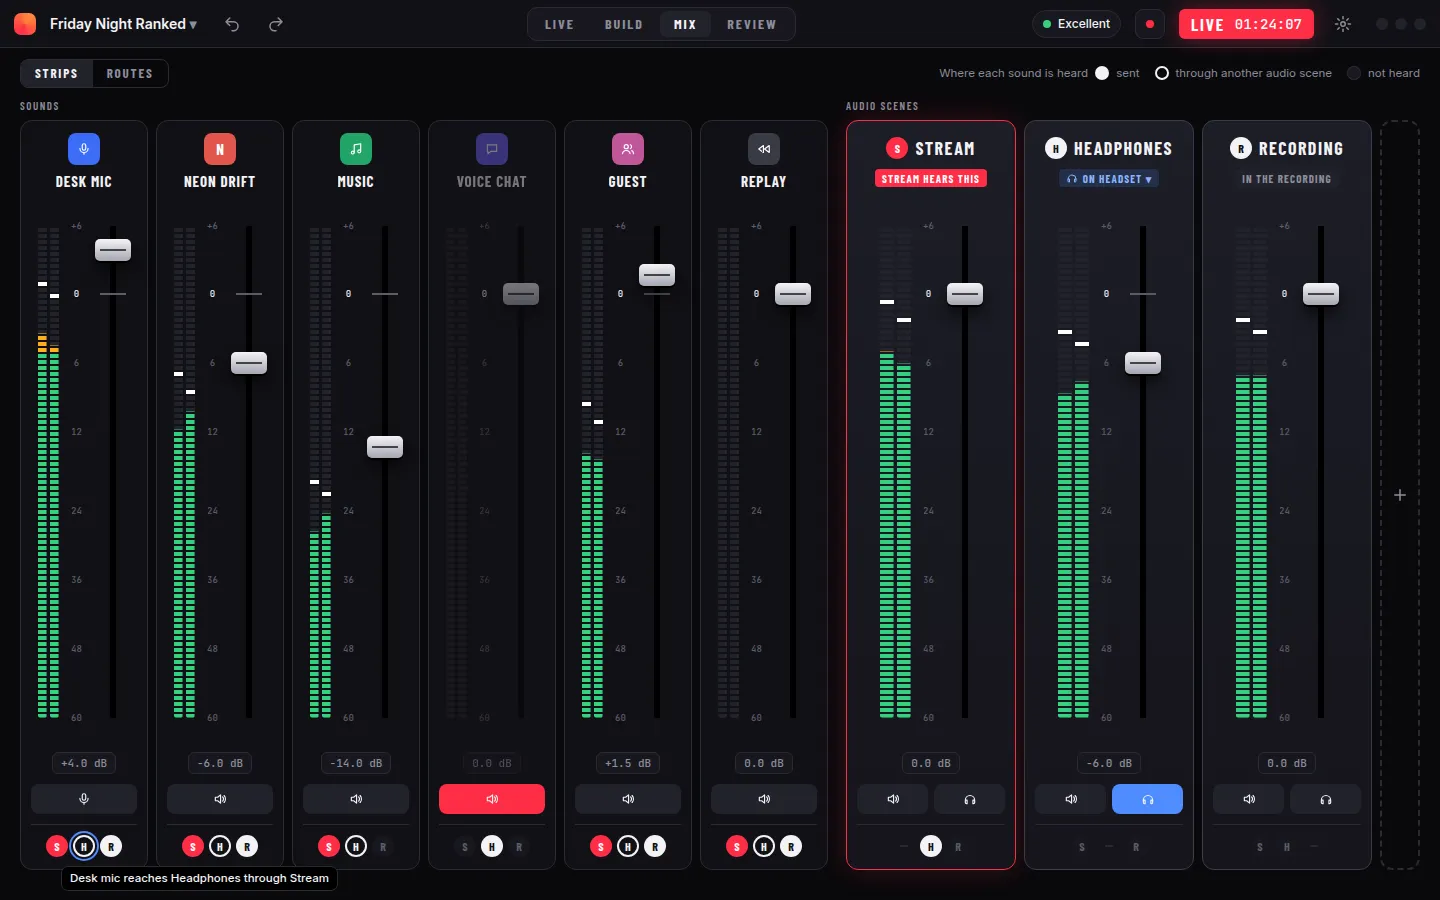
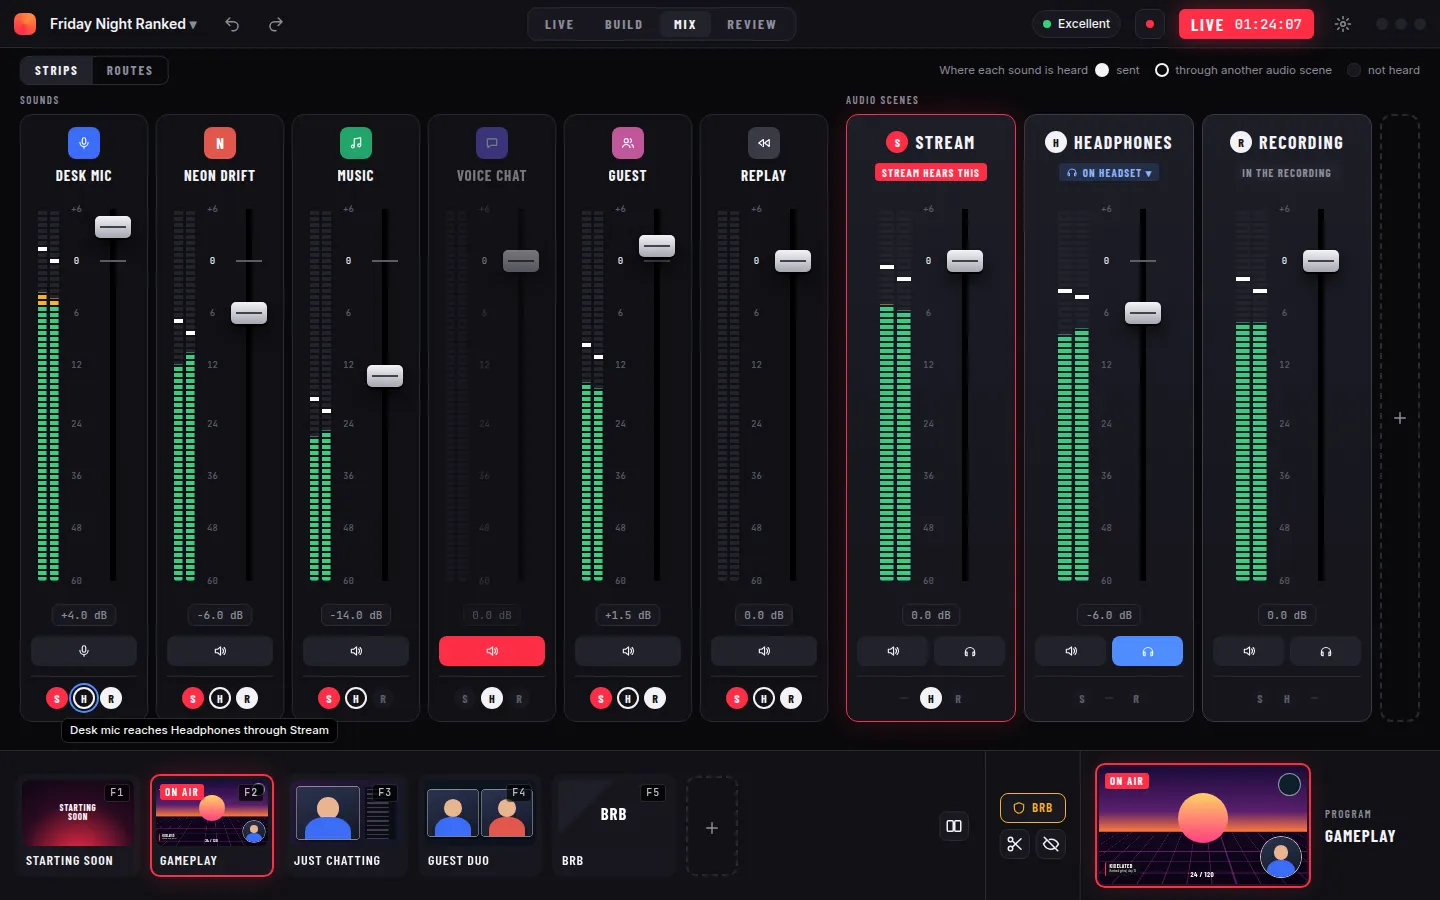
quest(m0/ux): the scenes, sound, panic key, and a live picture stay on every page

diff --git a/quest/m0/ux/mock/mix.html b/quest/m0/ux/mock/mix.html
@@ -9,13 +9,20 @@
 <link rel="stylesheet" href="kit.css">
 <style>
 /* MIX: a strip per sound, the audio scenes as masters, and the same sends as a matrix. */
-.M{grid-template:48px 50px minmax(0,1fr)/minmax(0,1fr);--H:492px}
+.M{grid-template:48px 44px minmax(0,1fr) 150px/minmax(0,1fr);--H:372px}
+.M .dock{grid-column:1/-1}
+/* the dock on MIX: scenes and the panic key as everywhere, and the live picture where the sound strip would repeat the page */
+.livemon{width:360px;flex:none;border-left:1px solid var(--line);display:flex;align-items:center;gap:18px;padding:0 14px 0 18px}
+.livemon-pic{position:relative;width:208px;aspect-ratio:16/9;flex:none;border-radius:6px;outline:2px solid var(--air);outline-offset:2px;box-shadow:0 0 24px #ff2d4640}
+.livemon-tag{position:absolute;left:6px;top:6px;z-index:5;padding:0 5px;border-radius:3px;background:var(--air);color:#fff;font:700 11px/16px var(--disp);letter-spacing:.12em}
+.livemon-tx{display:flex;flex-direction:column;gap:8px;min-width:0}
+.livemon-tx b{font:700 17px/1 var(--disp);letter-spacing:.06em;text-transform:uppercase;white-space:nowrap}
 .sub{display:flex;align-items:center;gap:16px;padding:0 20px}
 .sub .seg span{padding:7px 14px;font:700 13px/1 var(--disp);letter-spacing:.14em}
 .lg{display:flex;align-items:center;gap:7px;color:var(--dim);font-size:11.5px;white-space:nowrap}
 .lg .sd{width:14px;height:14px}
 
-.desk{display:flex;gap:18px;padding:0 20px 30px;min-height:0}
+.desk{display:flex;gap:18px;padding:0 20px 28px;min-height:0}
 .grp{display:flex;flex-direction:column;gap:8px;min-width:0}
 .grp.ms{flex:1}
 .grp>.cap{height:14px;display:flex;align-items:center}
@@ -91,21 +98,22 @@
 .c .openw .nm2{font-size:15px;letter-spacing:.06em}
 .c .grp.sn{flex:1}
 .det{width:300px;flex:none;border-left:1px solid var(--line);display:flex;flex-direction:column;min-height:0}
-.det .dh{display:flex;align-items:center;gap:10px;padding:12px 8px 12px 14px;border-bottom:1px solid var(--line)}
-.det .dh b{display:block;font:700 18px/1 var(--disp);letter-spacing:.08em}
-.det .dh small{display:block;margin-top:5px;font-size:11.5px;color:var(--dim)}
-.det .sec{padding:13px 14px;gap:11px}
+.det .dh{display:flex;align-items:center;gap:10px;padding:5px 6px 5px 14px;border-bottom:1px solid var(--line)}
+.det .dh .grow{display:flex;align-items:baseline;gap:10px}
+.det .dh b{font:700 18px/1 var(--disp);letter-spacing:.08em}
+.det .dh small{font-size:11.5px;color:var(--dim)}
+.det .sec{padding:10px 14px;gap:9px}
 .det .sl .n{width:44px;color:var(--text)}
 .det .sl b{width:58px;text-align:right;font:500 11.5px/1 var(--mono)}
 .sl .bar.pan{background:linear-gradient(var(--faint),var(--faint)) center/2px 10px no-repeat,linear-gradient(var(--p3),var(--p3)) center/100% 4px no-repeat;height:10px}
 .sl .bar.pan::after{top:-2px}
 .help{font-size:11.5px;line-height:1.4;color:var(--dim)}
 .fl{border-radius:9px;background:var(--p2);border:1px solid var(--line)}
-.fl .fh{display:flex;align-items:center;gap:8px;height:36px;padding:0 10px 0 6px;font:500 12.5px/1 var(--ui)}
+.fl .fh{display:flex;align-items:center;gap:8px;height:28px;padding:0 10px 0 6px;font:500 12.5px/1 var(--ui)}
 .fl .fh em{font-style:normal;font-size:11px;color:var(--dim);white-space:nowrap}
 .fl .num{width:16px;text-align:center;font:500 11px/1 var(--mono);color:var(--faint)}
 .fl .grip{color:var(--dim)}
-.fl .fb{display:flex;flex-direction:column;gap:10px;padding:4px 12px 12px 12px;border-top:1px solid var(--line);padding-top:11px}
+.fl .fb{display:flex;flex-direction:column;gap:8px;padding:9px 12px 10px;border-top:1px solid var(--line)}
 .fl.open{border-color:#3b3b4a}
 .gr{flex:1;height:8px;border-radius:2px;background:linear-gradient(270deg,var(--cue) 0 var(--v),var(--p3) var(--v));
   -webkit-mask:repeating-linear-gradient(90deg,#000 0 5px,transparent 5px 7px);mask:repeating-linear-gradient(90deg,#000 0 5px,transparent 5px 7px)}
@@ -113,20 +121,20 @@
 .hr em{font-style:normal;font-size:11px;color:var(--dim)}
 
 /* routes: sounds down the side, audio scenes across the top */
-.mxw{position:relative;display:flex;justify-content:center;align-items:flex-start;padding:6px 20px 18px;min-height:0}
+.mxw{position:relative;display:flex;justify-content:center;align-items:flex-start;padding:6px 20px 0;min-height:0}
 .mx{position:relative;display:grid;grid-template-columns:292px 220px repeat(3,178px) 70px;border-radius:14px;background:var(--p1);border:1px solid var(--line);overflow:hidden}
-.mx>div{display:flex;align-items:center;min-width:0;height:60px;border-top:1px solid var(--line)}
-.mx>.h{height:112px;border-top:0;align-items:stretch}
+.mx>div{display:flex;align-items:center;min-width:0;height:50px;border-top:1px solid var(--line)}
+.mx>.h{height:98px;border-top:0;align-items:stretch}
 .mx>.nm{gap:11px;padding-left:18px;font:600 13.5px/1 var(--ui)}
 .mx>.nm .ic{width:28px;height:28px;font:700 14px/1 var(--disp)}
 .mx>.lv{padding:0 26px 0 6px}
 .mx>.lv .led{height:8px}
-.mx>.c{justify-content:center;flex-direction:column;gap:5px;border-left:1px solid var(--line)}
+.mx>.c{justify-content:center;flex-direction:column;gap:4px;border-left:1px solid var(--line)}
 .mx>.c.pg{background:#ff2d460f}
 .mx>.c small{font-size:10px;line-height:1;color:var(--dim)}
 .mx>.c.self{background:repeating-linear-gradient(-45deg,transparent 0 6px,#ffffff08 6px 12px)}
-.mx>.dv{grid-column:1/-1;height:40px;padding:0 18px;gap:10px;background:#0d0d12}
-.mx>.ft{height:42px;font-size:11.5px;color:var(--dim)}
+.mx>.dv{grid-column:1/-1;height:34px;padding:0 18px;gap:10px;background:#0d0d12}
+.mx>.ft{height:36px;font-size:11.5px;color:var(--dim)}
 .mx>.ft.c{flex-direction:row}
 .mx>.hi{background:#4f8cff14}
 .mx>.c.pg.hi{background:#4f8cff14}
@@ -168,7 +176,7 @@ const MS=[
  {id:'H',n:'Headphones',on:1,tag:`<span class="mtag sel">${I('phones')}On Headset ▾</span>`,l:66,r:68,pk:78,t:28,db:'-6.0',s:'-x-'},
  {id:'R',n:'Recording',tag:'<span class="mtag">In the recording</span>',l:70,r:69,pk:81,t:14,db:'0.0',s:'--x'},
 ];
-const SEGS=82,seg=x=>x<0?-2:Math.round(x*SEGS/100);
+const SEGS=62,seg=x=>x<0?-2:Math.round(x*SEGS/100);
 const dot=(c,i,l=1)=>`<i class="sd ${{d:'d',v:'v','-':'',x:'x'}[c]} ${i==0?'pg':''}">${c=='x'||!l?'':SC[i][0]}</i>`;
 const sends=s=>`<div class="sends">${[...s].map((c,i)=>dot(c,i)).join('')}</div>`;
 const scale=`<div class="sc">${[['+6',0],['0',14,'u'],['6',28],['12',42],['24',58],['36',72],['48',86],['60',100]].map(([t,y,c])=>`<span class="${c||''}" style="--y:${y}%">${t}</span>`).join('')}</div>`;
@@ -194,10 +202,10 @@ const detail=()=>`<div class="det">
     <div class="sl"><span class="n">Pan</span><div class="bar pan" style="--v:50%"></div><b>Center</b></div>
     <div class="sl"><span class="n">Delay</span><div class="bar" style="--v:6%"></div><b>120 ms</b></div>
     <div class="row" style="gap:10px"><div class="btn" style="flex:none">${I('clap','sm')}Clap to measure</div><span class="help">up to 2 s</span></div>
-    <span class="help">Clap once on camera and the sound lines up with the picture.</span>
+    <span class="help">Clap once on camera to line the sound up.</span>
   </div>
   <div class="sec">
-    <div class="row"><span class="cap grow">Filters</span><span class="help" style="font-size:11px">top one first</span></div>
+    <div class="row"><span class="cap">Filters</span><span class="help grow" style="font-size:11px">top one first</span><span class="row dim" style="gap:5px;font-size:12px">${I('plus','sm')}Add a filter</span></div>
     ${filt(1,'Noise suppression','Strong')}
     ${filt(2,'Gate','opens at -42 dB')}
     <div class="fl open"><div class="fh">${I('grip','sm grip')}<span class="num">3</span><span class="grow">Compressor</span>${I('down','sm dim')}<i class="tog on"></i></div>
@@ -208,15 +216,18 @@ const detail=()=>`<div class="det">
         <div class="sl"><span class="n" style="width:66px;color:var(--dim)">Reducing</span><div class="gr" style="--v:30%"></div><b style="color:var(--cue)">-4 dB</b></div>
       </div></div>
     ${filt(4,'Limiter','-1 dB ceiling')}
-    <div class="row dim" style="font-size:12px;padding-left:4px">${I('plus','sm')}Add a filter</div>
   </div>
-  <div class="sec" style="border:0;gap:6px">
-    <span class="cap" style="margin-bottom:4px">Heard in</span>
+  <div class="sec" style="border:0;gap:4px">
+    <span class="cap" style="margin-bottom:3px">Heard in</span>
     <div class="hr"><i class="sd d pg">S</i><span class="grow">Stream</span><i class="tog on"></i></div>
     <div class="hr"><i class="sd v">H</i><span class="grow">Headphones <em>through Stream</em></span><i class="tog"></i></div>
     <div class="hr"><i class="sd d">R</i><span class="grow">Recording</span><i class="tog on"></i></div>
   </div>
 </div>`;
+
+// the dock as on LIVE, with the live picture in the slot of the sound strip
+const livemon=`<div class="livemon"><div class="livemon-pic"><span class="livemon-tag">ON AIR</span>${pic('game')}</div><div class="livemon-tx"><span class="cap">Program</span><b>Gameplay</b></div></div>`;
+const mixdock=()=>`<div class="dock">${scenes()}${quick}${livemon}</div>`;
 
 // the matrix
 const ROWS=[...SND,...MS.map(m=>({...m,ms:1}))];
@@ -235,17 +246,17 @@ const matrix=()=>`<div class="mxw"><div class="mx">
 </div></div>`;
 
 const V={
- 'mix':{label:'MIX',cls:'M',note:'<b>MIX.</b> One strip per sound with a tall meter, a fader in decibels, and a mute; the audio scenes stand to the right as heavier master strips. The dots under a strip say where it is heard, one per audio scene: filled is sent, a ring arrives through another audio scene, and red is the one the stream hears. Any audio scene can be listened to with its headphone button.',
-   html:()=>topbar('MIX')+sub('s')+desk(),
-   after:f=>{const d=f.querySelector('.strip[data-id=mic] .sends .sd.v');d.classList.add('hov');
+ 'mix':{label:'MIX',cls:'M',note:'<b>MIX.</b> One strip per sound with a tall meter, a fader in decibels, and a mute; the audio scenes stand to the right as heavier master strips. The dots under a strip say where it is heard, one per audio scene: filled is sent, a ring arrives through another audio scene, and red is the one the stream hears. Any audio scene can be listened to with its headphone button. The dock stays underneath, so the scenes, the panic key, and the live picture stay on screen; the picture takes the slot where the sound strip sits on the other pages, since this page already is the sound.',
+   html:()=>topbar('MIX')+sub('s')+desk()+mixdock(),
+   after:f=>{air(f,'game');const d=f.querySelector('.strip[data-id=mic] .sends .sd.v');d.classList.add('hov');
      f.querySelector('.strip[data-id=mic]').insertAdjacentHTML('beforeend','<div class="tip" style="left:40px;bottom:-22px">Desk mic reaches Headphones through Stream</div>')}},
- 'strip':{label:'MIX · a strip opened',cls:'M',note:'<b>A strip opened.</b> A click on a strip grows it in place and its neighbours narrow, so no meter is covered. Inside: gain, pan, the delay with Clap to measure beside it, the filters in the order the sound passes through them with one unfolded, and the same sends as named switches.',
-   html:()=>topbar('MIX')+sub('s')+desk('mic')},
- 'routes':{label:'MIX · routes',cls:'M',note:'<b>The same sends as a matrix.</b> Sounds and audio scenes down the side, audio scenes across the top, for someone who thinks in routing. A filled dot is a send, a ring is a sound that arrives through another audio scene, and the red column is what the stream hears.',
-   html:()=>topbar('MIX')+sub('r')+matrix(),
-   after:f=>{f.querySelectorAll('[data-r=music]').forEach(e=>e.classList.add('hi'));f.querySelectorAll('[data-c="2"]').forEach(e=>e.classList.add('hi'));
+ 'strip':{label:'MIX · a strip opened',cls:'M',note:'<b>A strip opened.</b> A click on a strip grows it in place and its neighbours narrow, so no meter is covered, and the scenes, the panic key, and the live picture stay on screen underneath. Inside: gain, pan, the delay with Clap to measure beside it, the filters in the order the sound passes through them with one unfolded, and the same sends as named switches.',
+   html:()=>topbar('MIX')+sub('s')+desk('mic')+mixdock(),after:f=>air(f,'game')},
+ 'routes':{label:'MIX · routes',cls:'M',note:'<b>The same sends as a matrix.</b> Sounds and audio scenes down the side, audio scenes across the top, for someone who thinks in routing, while the scenes, the panic key, and the live picture stay on screen underneath. A filled dot is a send, a ring is a sound that arrives through another audio scene, and the red column is what the stream hears.',
+   html:()=>topbar('MIX')+sub('r')+matrix()+mixdock(),
+   after:f=>{air(f,'game');f.querySelectorAll('[data-r=music]').forEach(e=>e.classList.add('hi'));f.querySelectorAll('[data-c="2"]').forEach(e=>e.classList.add('hi'));
      f.querySelector('.c[data-r=music][data-c="2"] .rd').classList.add('hov');
-     f.querySelector('.mxw').insertAdjacentHTML('beforeend','<div class="tip" style="left:1144px;top:255px">Music is left out of Recording</div>')}},
+     f.querySelector('.mxw').insertAdjacentHTML('beforeend','<div class="tip" style="left:1144px;top:217px">Music is left out of Recording</div>')}},
 };
 mount(V);
 </script>

diff --git a/quest/m0/ux/mock/review.html b/quest/m0/ux/mock/review.html
@@ -9,12 +9,13 @@
 <link rel="stylesheet" href="kit.css">
 <style>
 /* REVIEW: the recent past to replay or clip on the left, this show's recordings on the right. */
-.R{grid-template:48px minmax(0,1fr)/minmax(0,1fr) 384px}
-.rv{position:relative;display:flex;flex-direction:column;gap:16px;padding:18px 24px 22px;min-width:0;min-height:0;background:radial-gradient(120% 90% at 50% 0,#15151d,var(--bg))}
+.R{grid-template:48px minmax(0,1fr) 150px/minmax(0,1fr) 384px}
+.R .dock{grid-column:1/-1}
+.rv{position:relative;display:flex;flex-direction:column;gap:12px;padding:14px 24px 14px;min-width:0;min-height:0;background:radial-gradient(120% 90% at 50% 0,#15151d,var(--bg))}
 .pv{position:relative;width:min(100cqw - 12px,(100cqh - 12px)*16/9);aspect-ratio:16/9;border-radius:10px;outline:2px solid #3f3f4d;outline-offset:3px}
 .topa{flex:1;min-height:0;display:flex;gap:18px}
-.srcs{width:176px;flex:none;display:flex;flex-direction:column;justify-content:center;gap:8px}
-.srcc{position:relative;height:99px;border-radius:9px;overflow:hidden;outline:1px solid var(--line)}
+.srcs{width:160px;flex:none;display:flex;flex-direction:column;justify-content:center;gap:8px}
+.srcc{position:relative;height:90px;border-radius:9px;overflow:hidden;outline:1px solid var(--line)}
 .srcc b{position:absolute;left:0;right:0;bottom:0;z-index:3;padding:14px 8px 6px;font:700 13px/1 var(--disp);letter-spacing:.08em;text-transform:uppercase;background:linear-gradient(transparent,#000d)}
 .srcc.on{outline:3px solid var(--text)}
 .srcc .tg2{position:absolute;left:6px;top:6px;z-index:3;padding:0 5px;border-radius:3px;background:var(--air);color:#fff;font:700 11px/16px var(--disp);letter-spacing:.12em}
@@ -46,22 +47,22 @@
 .ruler span:first-child{transform:none}.ruler span:last-child{transform:translateX(-100%)}
 
 .rv .seg{border-radius:10px}
-.rv .seg span{padding:0 15px;height:36px;display:flex;align-items:center;font:600 12.5px/1 var(--ui)}
+.rv .seg span{padding:0 15px;height:30px;display:flex;align-items:center;font:600 12.5px/1 var(--ui)}
 .rv .seg span.on{background:var(--text);color:#111}
-.ctl{display:flex;flex-direction:column;gap:9px}
-.bigb{flex:1;height:78px;border-radius:13px;display:flex;align-items:center;gap:16px;padding:0 22px;background:var(--p2);border:1px solid #3f3f4d;min-width:0}
+.ctl{display:flex;flex-direction:column;gap:6px}
+.bigb{flex:1;height:70px;border-radius:13px;display:flex;align-items:center;gap:16px;padding:0 22px;background:var(--p2);border:1px solid #3f3f4d;min-width:0}
 .bigb svg.i{width:26px;height:26px}
 .bigb b{display:block;font:700 28px/1 var(--disp);letter-spacing:.1em}
 .bigb small{display:block;margin-top:5px;font-size:12px;color:var(--dim);white-space:nowrap}
 .bigb.go{flex:1.25;background:var(--text);color:#111;border-color:transparent;box-shadow:0 10px 30px #0008}
 .bigb.go small{color:#111b}
 
-.recs{background:var(--p1);border-left:1px solid var(--line);display:flex;flex-direction:column;min-height:0;padding:18px 16px 16px;gap:12px}
+.recs{background:var(--p1);border-left:1px solid var(--line);display:flex;flex-direction:column;min-height:0;padding:14px 16px 14px;gap:8px}
 .recs h2{margin:0;font:700 22px/1 var(--disp);letter-spacing:.1em}
-.rc{display:flex;gap:12px;padding:8px;border-radius:12px;background:var(--p2);border:1px solid var(--line)}
-.rc .th{position:relative;width:138px;height:78px;border-radius:7px;overflow:hidden;flex:none}
+.rc{display:flex;gap:12px;padding:7px;border-radius:12px;background:var(--p2);border:1px solid var(--line)}
+.rc .th{position:relative;width:128px;height:72px;border-radius:7px;overflow:hidden;flex:none}
 .rc .len{position:absolute;right:5px;bottom:5px;z-index:3;padding:3px 5px;border-radius:4px;background:#000c;font:500 10.5px/1 var(--mono);color:#fff}
-.rc .tx{flex:1;min-width:0;display:flex;flex-direction:column;justify-content:center;gap:7px}
+.rc .tx{flex:1;min-width:0;display:flex;flex-direction:column;justify-content:center;gap:6px}
 .rc b{font:600 13.5px/1.1 var(--ui);white-space:nowrap}
 .rc .m{font-size:11.5px;color:var(--dim);white-space:nowrap}
 .rt{display:inline-flex;align-items:center;gap:5px;height:19px;padding:0 7px;border-radius:4px;background:var(--p3);font:700 11px/1 var(--disp);letter-spacing:.1em;text-transform:uppercase;color:var(--text);white-space:nowrap;align-self:flex-start}
@@ -86,7 +87,7 @@ const A=(30-14)/30*100,B=(30-6)/30*100,H=(30-9)/30*100;
 const wave=Array.from({length:150},(_,i)=>{const h=18+78*Math.abs(Math.sin(i*1.31)*Math.cos(i*.173)*Math.sin(i*.049+1));const p=i/150*100;
   return `<i style="--h:${h.toFixed(0)}%${p>A&&p<B?';background:var(--text)':''}"></i>`}).join('');
 const past=()=>`<div>
-  <div class="row" style="margin:0 2px 12px"><span class="cap">The last 30 seconds</span><span class="grow"></span><span class="mono dim">8.0 s picked</span></div>
+  <div class="row" style="margin:0 2px 10px"><span class="cap">The last 30 seconds</span><span class="grow"></span><span class="mono dim">8.0 s picked</span></div>
   <div class="tl">
     <div class="thumbs">${['chat','chat','game','game','game','game'].map(k=>`<div data-pic="${k}"></div>`).join('')}</div>
     <div class="wave">${wave}</div>
@@ -120,9 +121,9 @@ const recs=()=>`<div class="recs">
   <div class="row"><div class="btn" style="height:36px;padding:0 14px">${I('folder','sm')}Open the folder</div><span class="grow"></span><span class="dim" style="font-size:12px">212 GB free</span></div>
 </div>`;
 const V={
- 'review':{label:'REVIEW',cls:'R',note:'<b>REVIEW.</b> The last 30 seconds as a strip to scrub, with amber handles around the stretch picked and the frame under the head shown large; beside it what to replay, picked by its live picture, and below it the speed and the two actions. On the right, this show\'s recordings and clips as cards, one marked as repaired after a crash. The program\'s own card stays live, so looking back never hides what is on air.',
-   html:()=>topbar('REVIEW')+`<div class="rv"><div class="topa"><div class="stage"><div class="pv"><span class="tag cue">9 S AGO</span>${pic('game')}</div></div>${srcs()}</div>${past()}${controls()}</div>`+recs(),
-   after:f=>{const r=f.querySelector('.top .ib.b');r.classList.add('recclock');r.insertAdjacentHTML('beforeend','52:10')}},
+ 'review':{label:'REVIEW',cls:'R',note:'<b>REVIEW.</b> The last 30 seconds as a strip to scrub, with amber handles around the stretch picked and the frame under the head shown large; beside it what to replay, picked by its live picture, and below it the speed and the two actions. On the right, this show\'s recordings and clips as cards, one marked as repaired after a crash. The program\'s own card stays live and the dock stays underneath, so the scenes, the panic key, the sound, and the live picture stay on screen and looking back never hides what is on air.',
+   html:()=>topbar('REVIEW')+`<div class="rv"><div class="topa"><div class="stage"><div class="pv"><span class="tag cue">9 S AGO</span>${pic('game')}</div></div>${srcs()}</div>${past()}${controls()}</div>`+recs()+dock(),
+   after:f=>{air(f,'game');const r=f.querySelector('.top .ib.b');r.classList.add('recclock');r.insertAdjacentHTML('beforeend','52:10')}},
 };
 mount(V);
 </script>

diff --git a/quest/m0/ux/README.md b/quest/m0/ux/README.md
@@ -79,6 +79,11 @@ the mock-up in the same PR.
 
 ### What is where
 
+The first column holds on every page, not only LIVE. The bottom strip of
+scene pads, panic key, and sound is on all four. On MIX, which is the sound,
+its sound slot holds a small live picture instead, and on REVIEW the
+program's card is the live picture.
+
 | Always on screen | On a page | In Settings |
 | --- | --- | --- |
 | The live picture and its tally frame | BUILD: layers, adding a source, the inspector, keyframes | Format, canvas size, frame rate, scene sizes |

diff --git a/quest/m0/ux/live.md b/quest/m0/ux/live.md
@@ -22,6 +22,9 @@ The studio opens to the LIVE page of the
   [narrow window](/quest/m0/ux/mock/shell-compact.webp) stacks them. Nothing
   clips at any size the window allows.
 
+The title bar and the bottom strip are on every page, so the scenes, the
+sound, the panic key, and a live picture never leave the window while on air.
+
 BUILD, MIX, and REVIEW exist as pages holding today's panels in the new look,
 so nothing the studio does is lost before its own quest redesigns it.
 egui_dock, or whatever the toolkit's dock is, is removed.

diff --git a/quest/m0/ux/review.md b/quest/m0/ux/review.md
@@ -10,6 +10,9 @@ show's recordings and clips as cards with a picture, a length, and a size,
 one that was repaired after a crash marked as such, and a button that opens
 their folder.
 
+The bottom strip stays, and the program's card in "replay what" is the live
+picture, so looking back never hides what is on air.
+
 The title bar's record button starts and stops a recording from any page and
 shows its clock while recording.
 

diff --git a/quest/m0/ux/mix.md b/quest/m0/ux/mix.md
@@ -14,7 +14,9 @@ Audio panel:
 - The same sends as a matrix, for someone who thinks in routing.
 
 The LIVE page's sound strip is the same meters and mutes for the sounds the
-stream carries.
+stream carries. On this page the bottom strip keeps the scene pads and the
+panic key and shows a small live picture where that sound strip sits
+elsewhere, so an operator riding a fader still sees what is on air.
 
 ## Plan
 
